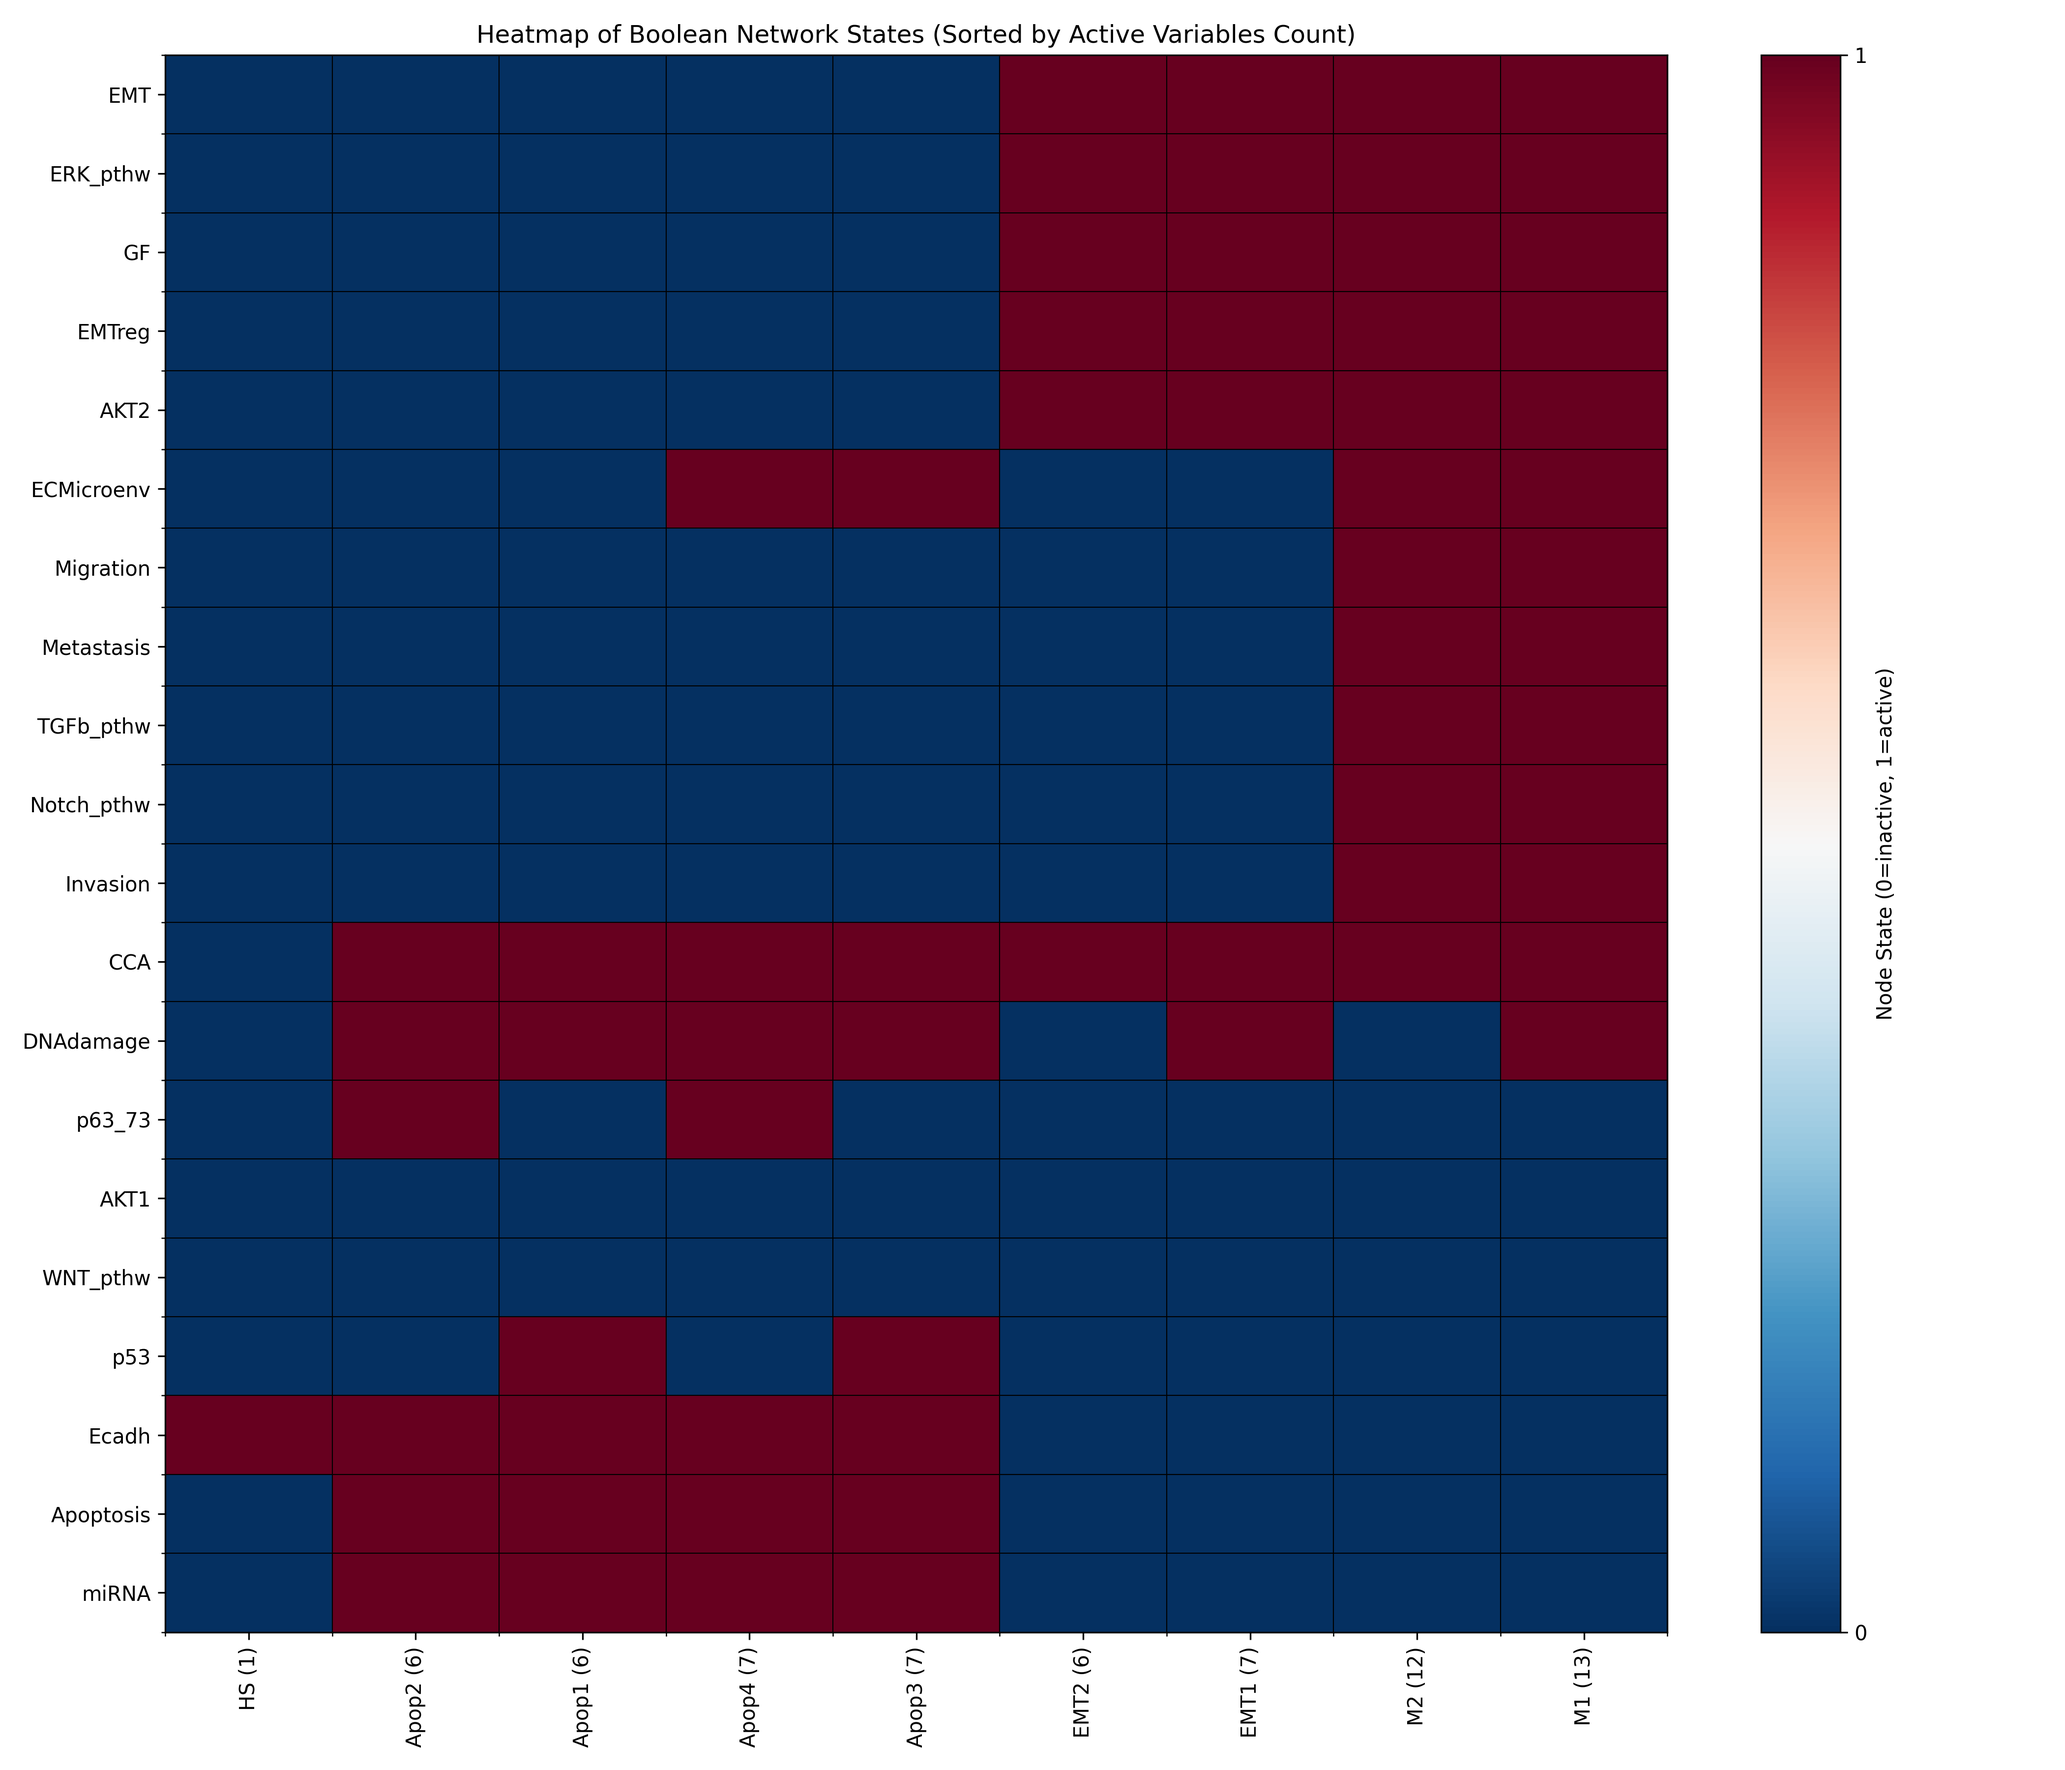
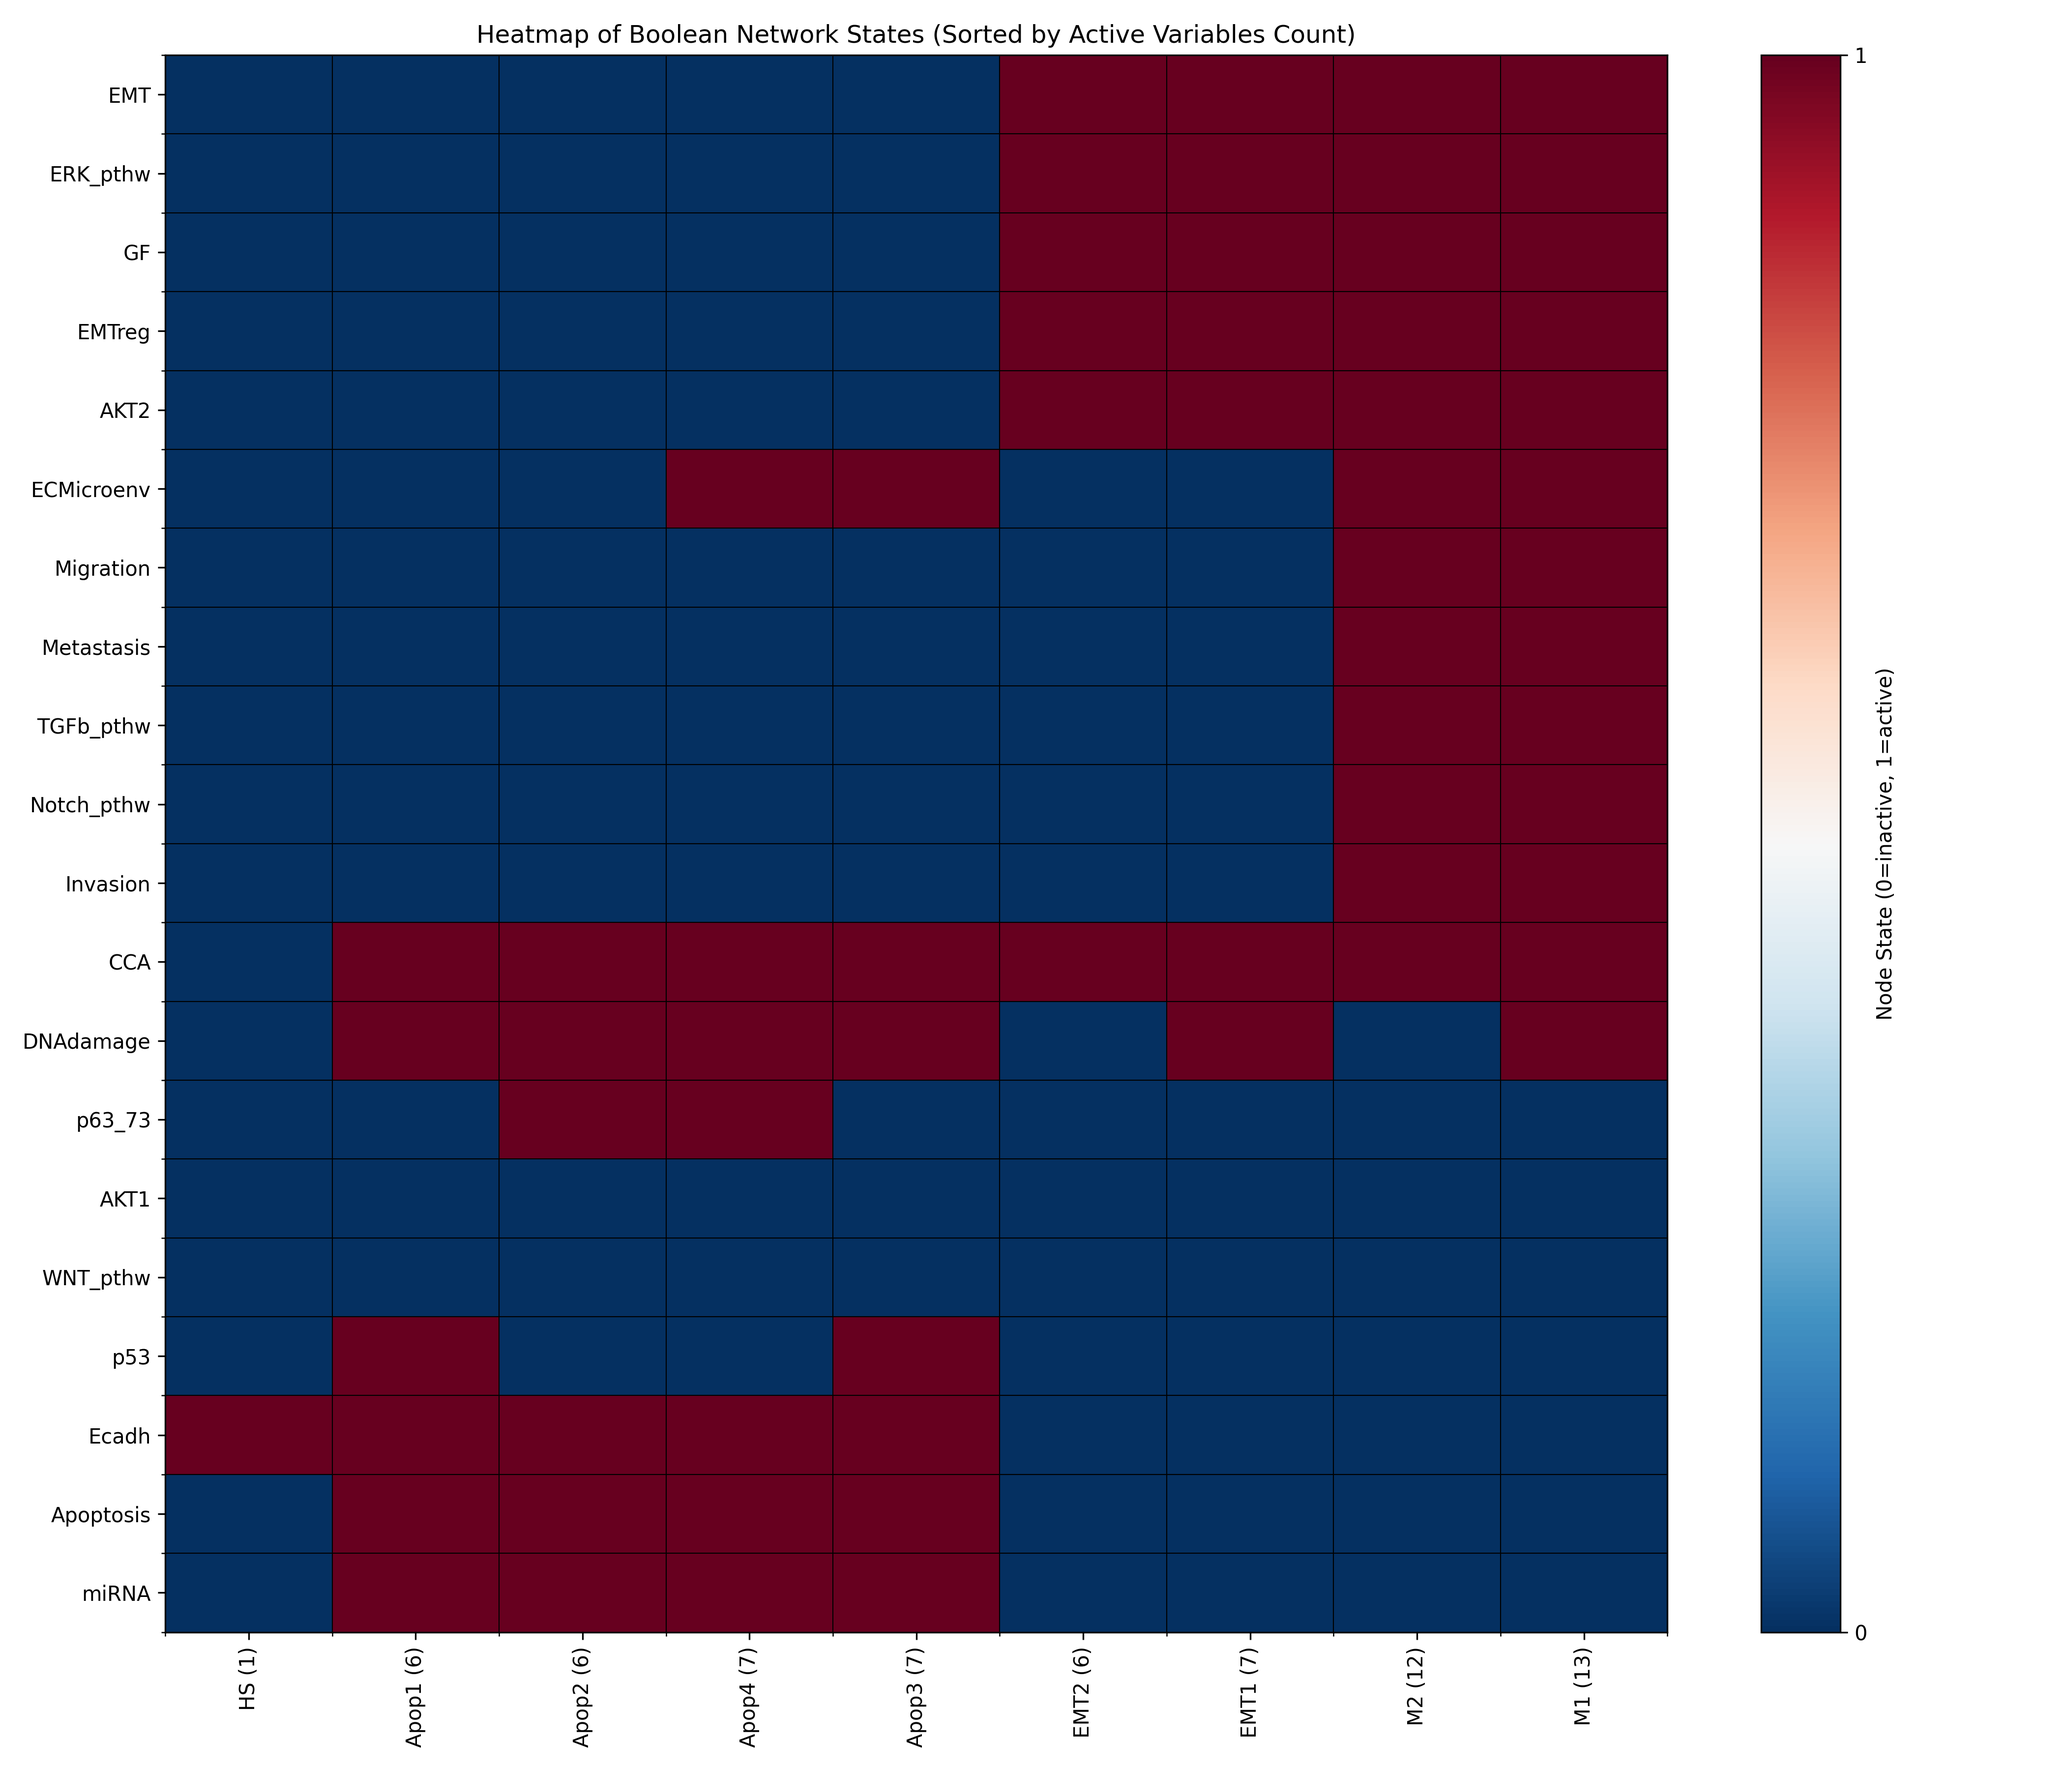
--adjusting columns order

Changed region(s): [[0.156, 0.7467, 0.3431, 0.8089], [0.156, 0.5911, 0.3431, 0.6533]]

diff --git a/utils.py b/utils.py
@@ -14,9 +14,9 @@ def plot_stable_states(df, stable_state_names, filename):
     col_order = active_gene_counts.sort_values().index
     
     # col_order = col_order.tolist()
-    # col_order.insert(3, col_order.pop(1))
     # col_order.insert(6, col_order.pop(1))
     # col_order.insert(6, col_order.pop(3))
+    # col_order.insert(2, col_order.pop(1))
     
     row_linkage = linkage(pdist(df_sorted), method='average')
     row_order = dendrogram(row_linkage, no_plot=True)['leaves']

diff --git a/modular_model.py b/modular_model.py
@@ -48,7 +48,7 @@ df = pd.DataFrame(stable)
 df_T = df.T
 print(tabulate(df_T, headers='keys', tablefmt='dpsl'))
 
-stable_state_names=['HS','Apop2','Apop1','Apop4','Apop3','EMT2', 'EMT1','M2','M1']
+stable_state_names=['HS','Apop1','Apop2','Apop4','Apop3','EMT2', 'EMT1','M2','M1']
 
 plot_stable_states(df_T, stable_state_names, 'reduced_model')
 
